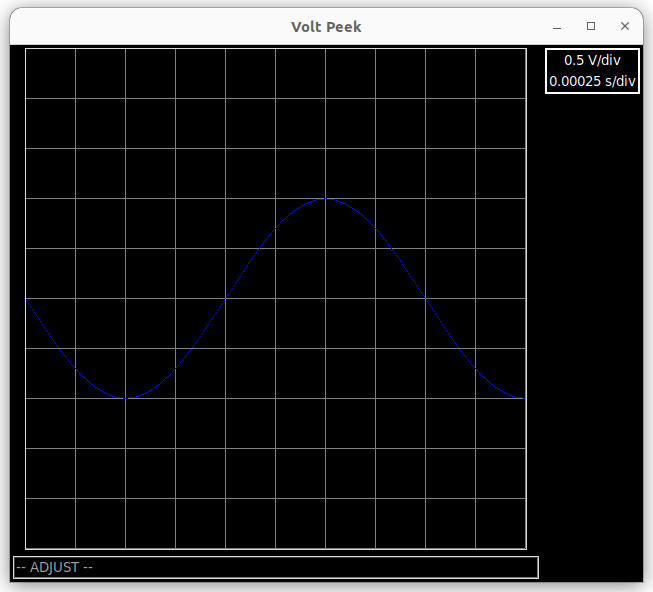
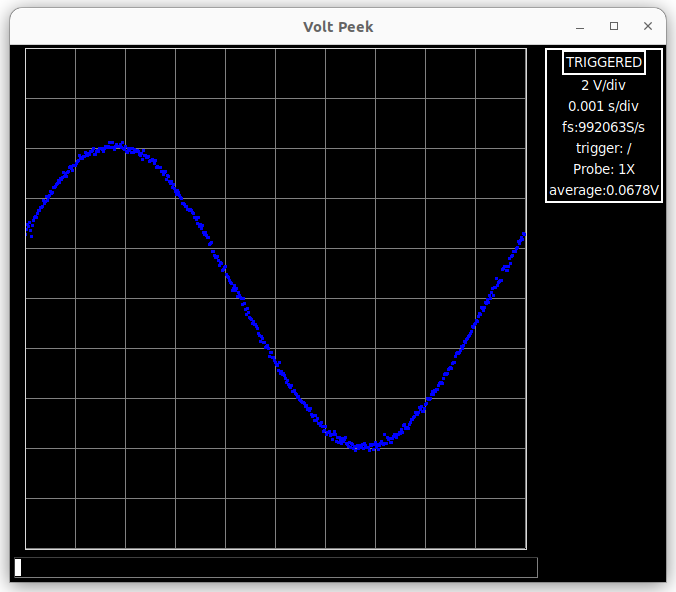
updated picture

diff --git a/voltpeek/reconstruct.py b/voltpeek/reconstruct.py
@@ -47,5 +47,5 @@ def reconstruct(xx: list[float], specs, vertical_setting: float) -> list[float]:
         adc_input = inverse_quantize(x, specs['resolution'], specs['voltage_ref'])
         zeroed = zero(adc_input, specs['voltage_ref'])
         if offset is not None:
-            reconstructed_signal.append(reamplify(zeroed, attenuation) - offset)
+            reconstructed_signal.append(reamplify(zeroed, attenuation) + offset)
     return reconstructed_signal     

diff --git a/voltpeek/scope_specs.py b/voltpeek/scope_specs.py
@@ -18,7 +18,7 @@ class ScopeSpecs(TypedDict):
 
 scope_specs:ScopeSpecs = {
     'attenuation': {'range_high':0.02493, 'range_low':0.5005},
-    'offset': {'range_high':-1.2, 'range_low':0.00},
+    'offset': {'range_high':0.9, 'range_low':0.00},
     'resolution': 256,    
     'voltage_ref': 1.0,
     'sample_rate': 62.5e6, 
